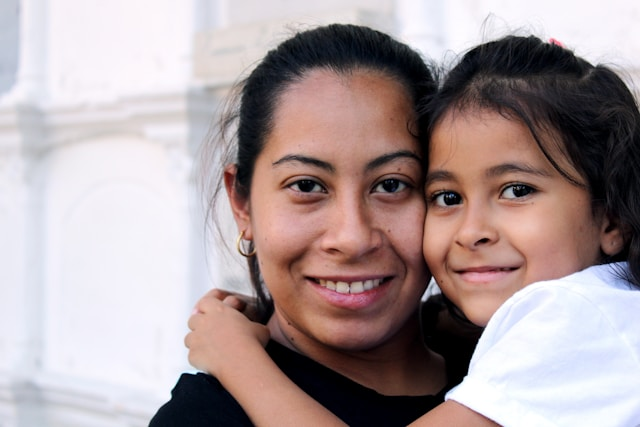
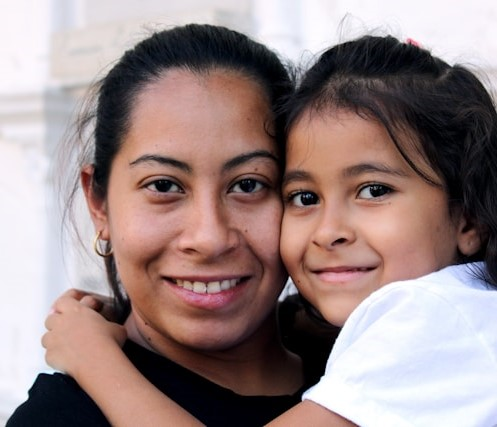
perfil

diff --git a/styles.css b/styles.css
@@ -686,3 +686,109 @@ footer p{
   .botonesContacto a{
     padding: 3%;
   }
+
+  .panelContacto{
+    padding-right: 10%;
+    padding-left: 10%;
+    padding-bottom: 5%;
+    padding-top: 5%;
+    display: flex;
+    flex-direction: row;
+    align-items: center;
+    justify-content: center; 
+  }
+
+  .perfil{
+    background-color: white;
+    border: 1px solid black;
+    padding: 10%;
+    width: 80%;
+    display: grid;
+    grid-template-columns: repeat(6, 1fr);
+    grid-auto-rows: minmax(250px, auto);
+    width: 60%;
+    border: 1px solid black;
+    grid-gap: 20px;
+  }
+
+
+  .fotoPerfil {
+    grid-column: 1 / 2;
+    grid-row: 1;
+  }
+
+  .mercedes{
+    height: 250px;
+  }
+
+  .datosPerfil {
+    grid-column: 2 / 7;
+    grid-row: 1;
+    background-color: white;
+    padding: 10px;
+    display: flex;
+    flex-direction: column;
+    justify-content: end;
+    align-items: start;
+  }
+
+  .notasPerfil {
+    grid-column: 1 / 2;
+    grid-row: 2;
+    border: 1px solid black;
+    background-color: white;
+  }
+
+  .tituloNotas {
+    background-color: black;
+    padding: 1%;
+    padding-left: 5%;
+  }
+
+  .tituloNotas p {
+    color: white;
+  }
+
+  .textoNotas {
+    padding: 1%;
+    padding-left: 5%;
+  }
+
+
+
+
+  .recordatoriosPerfil {
+    grid-column: 2 / 7;
+    grid-row: 2;
+    border: 1px solid black;
+    background-color: white;
+  }
+
+
+  .tituloRecordatorios {
+    background-color: black;
+    padding: 1%;
+    padding-left: 5%;
+  }
+
+  .tituloRecordatorios p {
+    color: white;
+  }
+
+  .recordatorio1 {
+    padding: 1%;
+    padding-left: 5%;
+    display: flex;
+    flex-direction: row;
+    justify-content: space-between;
+    align-items: start;
+    column-gap: 2%;
+  }
+
+  .recordatorio1 i {
+    padding-top: 5%;
+  }
+
+
+
+

diff --git a/perfilContacto.php b/perfilContacto.php
@@ -94,10 +94,82 @@
 <section class="panelContacto">
 
 
-   
+    <div class="perfil">
+
+        <div class="fotoPerfil">
+            <img src="media/mercedes.jpg" alt="mujer con niña" class="mercedes">
+        </div>
+
+        <div class="datosPerfil">
+            
+            <h2>
+                Mercedes Martín Puig (Merche)
+            </h2>
+
+            <p>
+                Amiga de Mallorca
+            </p>
+
+            <p>
+                mercedes.martin@gmail.com
+            </p>
+
+        </div>
+
+        <div class="notasPerfil">
+
+            <div class="tituloNotas">
+                <p><b>Notas</b></p>
+            </div>
+
+            <div class="textoNotas">
+                <p>Su hija se llama Julieta.</p>
+                <p>Max es su chihuahua.</p>
+                </br></br></br></br></br>
+            </div>
+
+        </div>
+
+        <div class="recordatoriosPerfil">
+
+            <div class="tituloRecordatorios">
+                <p>
+                    <b>
+                        Recordatorios
+                    </b>
+                </p>
+            </div>
+
+            <div class="recordatorio1">
+                <p>
+                    5/03/2024
+                </p>
+
+                <p>
+                    Cada año
+                </p>
+
+                <p>
+                    Cumpleaños Mercedes
+                </p>
+
+                <i class="fa-solid fa-pencil" style="color: #000000;"></i>
+                <i class="fa-solid fa-trash" style="color: #000000;"></i>
+
+            </div>
+
+            <div class="textoNotas">
+                </br></br></br></br></br></br>
+            </div>
 
 
-    </section>
+
+        </div>
+
+    </div>
+
+
+</section>
 
 
 <footer>
